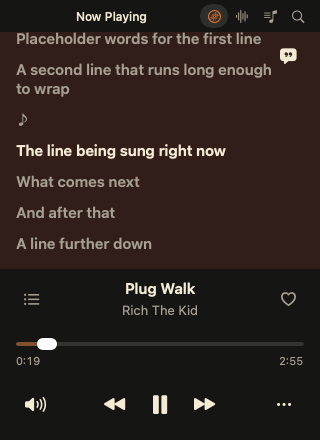
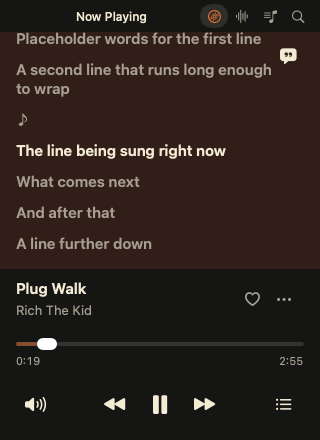
Now Playing: the title from the left, Like and the menu after it, Up Next by the transport
Up Next and Like on the two sides of a centred title squeezed it and
balanced two unrelated buttons. A long title now scrolls. Up Next has a
glass circle opposite the speaker.

Snapshots wrote nothing into a folder that did not exist until the last
stage; the folder is now made first.

diff --git a/Sources/BSide/Views/NowPlaying/NowPlayingPage.swift b/Sources/BSide/Views/NowPlaying/NowPlayingPage.swift
@@ -29,15 +29,11 @@ struct NowPlayingPage: View {
             artworkZone
                 .layoutPriority(1) // the record takes the free height, not the gaps
             Spacer(minLength: Theme.Space.s)
-            // Up Next before the title and Like after it, always in view;
-            // the two are as wide, so the title stays centred.
-            HStack(spacing: Theme.Space.xxs) {
-                queueButton
-                VStack(spacing: Theme.Space.xxs) {
-                    Text(title)
-                        .font(Theme.Text.title)
-                        .foregroundStyle(Theme.Colors.text)
-                        .lineLimit(1)
+            // The track's name from the left edge, and what can be done
+            // with the track after it: Like and the menu, always in view.
+            HStack(spacing: 0) {
+                VStack(alignment: .leading, spacing: Theme.Space.xxs) {
+                    MarqueeText(text: title, font: Theme.Text.title, color: Theme.Colors.text)
                         .help(title)
                     if player.state.isAd, player.state.adLeft >= 0 {
                         AdCountdown(font: Theme.Text.body)
@@ -57,10 +53,13 @@ struct NowPlayingPage: View {
                         .help("Show \(subtitle)")
                     }
                 }
-                .frame(maxWidth: .infinity)
+                .frame(maxWidth: .infinity, alignment: .leading)
                 likeButton
+                trackMenu
             }
-            .padding(.horizontal, Theme.Space.m)
+            .padding(.leading, Theme.Space.m)
+            // The menu's dots sit over the middle of the Up Next circle.
+            .padding(.trailing, Theme.Space.m + (Theme.Size.transportBar - Theme.Size.transportTarget) / 2)
             Spacer(minLength: Theme.Space.m)
             progress
                 .padding(.horizontal, Theme.Space.m)
@@ -72,14 +71,15 @@ struct NowPlayingPage: View {
     }
 
     /// Opens the list of what plays next in the artwork's place, and closes
-    /// it; orange while it shows.
+    /// it; orange while it shows. Its circle mirrors the speaker's.
     private var queueButton: some View {
         TransportButton(symbol: "list.bullet", label: showsQueue ? "Hide Up Next" : "Up Next",
-                        color: showsQueue ? Theme.Colors.accentText : Theme.Colors.textMuted) {
+                        target: Theme.Size.transportBar,
+                        color: showsQueue ? Theme.Colors.accentText : Theme.Colors.text) {
             navigation.showsQueue.toggle()
         }
-        .opacity(player.state.isAd ? 0 : 1)
         .disabled(player.state.isAd)
+        .glass(in: Circle())
     }
 
     /// Orange and filled once liked. An ad cannot be liked: the button
@@ -246,7 +246,7 @@ struct NowPlayingPage: View {
     }
 
     /// Previous, Play and Next share one glass capsule, centred; the speaker
-    /// has its own circle on the left and the track menu one on the right.
+    /// has its own circle on the left and Up Next one on the right.
     /// All three are the same height.
     private var transport: some View {
         // Each button is as tall as the capsule, so its hover fills it and
@@ -263,7 +263,7 @@ struct NowPlayingPage: View {
         .glass(in: Capsule())
         .frame(maxWidth: .infinity)
         .overlay(alignment: .leading) { volumeButton }
-        .overlay(alignment: .trailing) { trackMenu }
+        .overlay(alignment: .trailing) { queueButton }
     }
 
     /// What can be done with the track itself: Like with its shortcut, then
@@ -297,15 +297,14 @@ struct NowPlayingPage: View {
         } label: {
             Image(systemName: "ellipsis")
                 .font(.system(size: Theme.Size.transportGlyph, weight: .semibold))
-                .foregroundStyle(Theme.Colors.text)
-                .frame(width: Theme.Size.transportBar, height: Theme.Size.transportBar)
+                .foregroundStyle(Theme.Colors.textMuted)
+                .frame(width: Theme.Size.transportTarget, height: Theme.Size.transportTarget)
                 .contentShape(Circle())
         }
         .menuStyle(.button)
         .buttonStyle(PressableStyle())
         .menuIndicator(.hidden)
         .pointingHand()
-        .glass(in: Circle())
         .help("More")
         .accessibilityLabel("More")
     }

diff --git a/Sources/BSide/Design/Snapshots.swift b/Sources/BSide/Design/Snapshots.swift
@@ -172,6 +172,7 @@ enum Snapshots {
     }
 
     static func render(into folder: URL) async {
+        try? FileManager.default.createDirectory(at: folder, withIntermediateDirectories: true)
         await renderNewVibe(into: folder)
         await renderSettings(into: folder)
         await renderPage(.nowPlaying, player: .fixture(state: track, source: .mood(Mood.liked.id)),
@@ -281,7 +282,6 @@ enum Snapshots {
                          name: "vibe-reduce-transparency", appearance: .darkAqua, into: folder,
                          reduceTransparency: true)
         EventLog.write("snapshot: rendering \(cases.count) cases into \(folder.path)")
-        try? FileManager.default.createDirectory(at: folder, withIntermediateDirectories: true)
         NSSetUncaughtExceptionHandler { exception in
             EventLog.write("snapshot: exception \(exception.name.rawValue): \(exception.reason ?? "")")
         }

diff --git a/design/SCREENS.md b/design/SCREENS.md
@@ -16,11 +16,16 @@ bar and under Command-comma. Starting music never switches the page.
 - Secondary actions: Next, Previous, seek, volume (speaker opens a popover)
 - Attention order: 1) artwork 160 with the record showing from behind on the
   right 2) title and artist 3) progress 4) transport
-- Like: a heart at the end of the title line, always in view; muted, and
-  orange and filled once liked. As much room is kept free before the title,
-  so it stays centred. Not on the artwork's hover, which keeps Lyrics and
-  Repeat.
-- Up Next: a list button before the title, as wide as Like after it. It
+- Title and artist start at the left edge, in line with the progress bar; a
+  long title scrolls. What can be done with the track comes after them:
+  Like, then the track's menu ("…"). Both are muted and without glass, so
+  they weigh the same (since 2026-10-02; before, Up Next and Like stood on
+  the two sides of a centred title, which squeezed it and put an unrelated
+  pair in balance).
+- Like: a heart, always in view; orange and filled once liked. Not on the
+  artwork's hover, which keeps Lyrics and Repeat. Hidden during an ad.
+- Up Next: a list button in a glass circle at the end of the transport row,
+  mirroring the speaker at its start; both open something. It
   puts what plays next in the artwork's place (as Lyrics do; one of the two
   at a time) and is orange while the list shows. A click on a track jumps to
   it; its menu is a track's menu plus Remove from Up Next. The next 30
